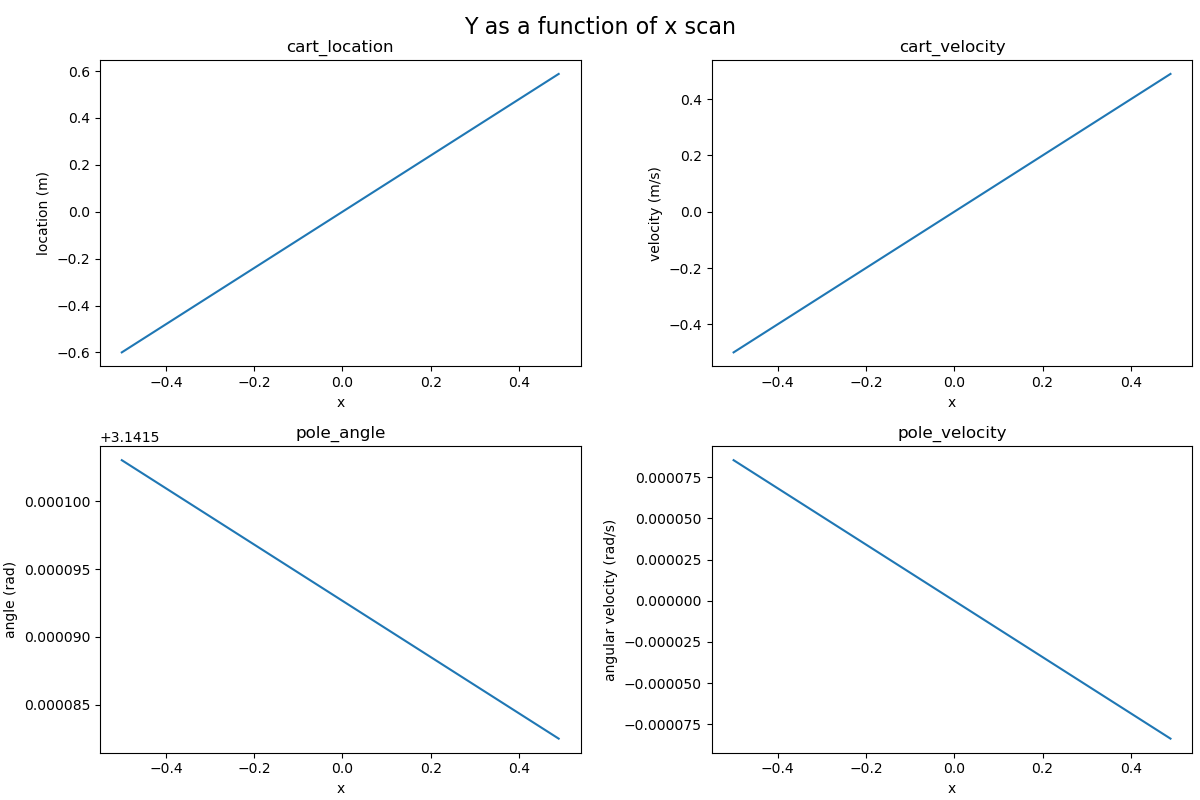
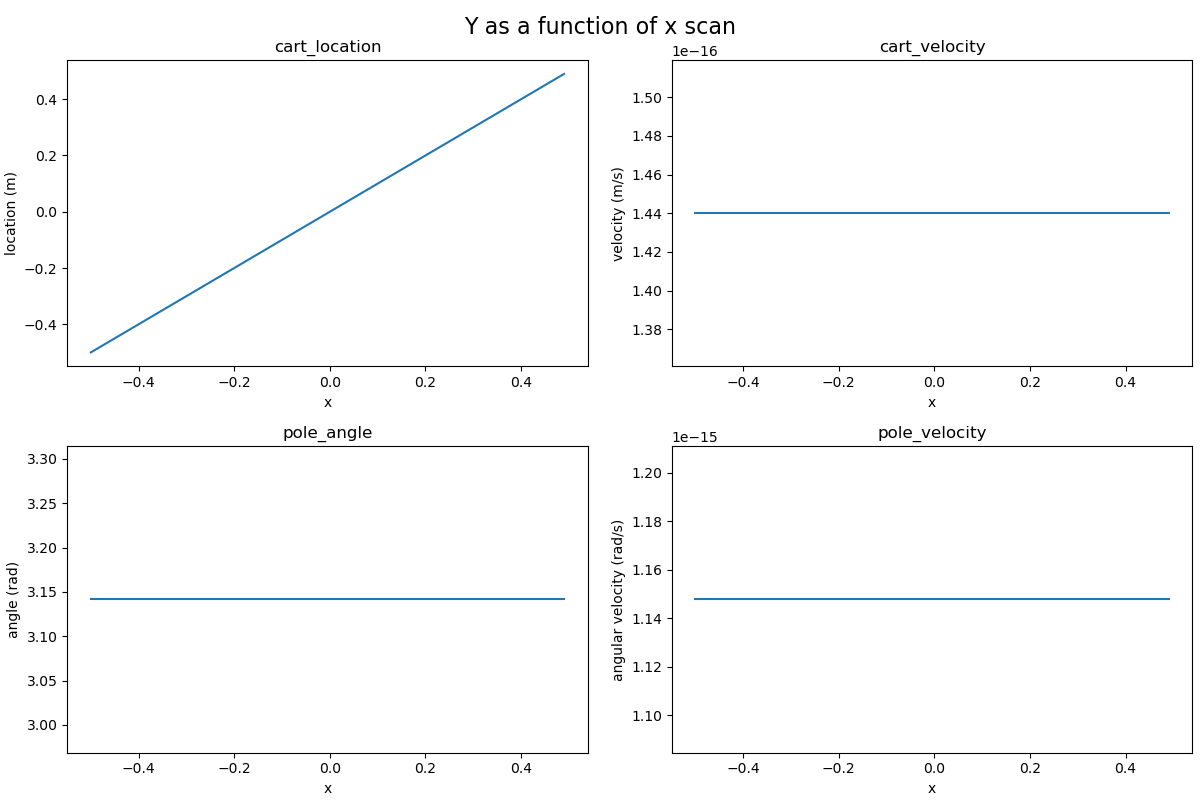
having trouble plotting contours

diff --git a/task1_22.py b/task1_22.py
@@ -1,4 +1,5 @@
 import numpy as np
+import matplotlib.tri as tri
 from CartPole import *
 
 # task 1.2 changes of state: model Y = X(T) - X(0)
@@ -6,79 +7,166 @@ from CartPole import *
 """initialisation"""
 cartpole1 = CartPole()
 
+# scans of variables
+
 """setting the state scans"""
-x_dot_scan = np.arange(-10,10,0.1)
-theta_scan = np.arange(np.pi-0.1,np.pi,0.001)
-theta_dot_scan = np.arange(14.5,15,0.01)
+x_scan = np.arange(-0.5,0.5,0.01)
+x_dot_scan = np.arange(-5,5,0.1)
+theta_scan = np.arange(2.14,3.14,0.01)
+theta_dot_scan = np.arange(13.5,14.5,0.01)
 
-"""Y plot for x_dot scan"""
-Y1 = []
-for x_dot in x_dot_scan:
-    X = np.array([0,x_dot,np.pi,0])
-    cartpole1.setState(X)
-    cartpole1.performAction()
-    Y = np.array(cartpole1.getState())
-    Y1.append((Y-X))
-Y1 = np.array(Y1)
-Y1_0 = Y1[:,0]
-Y1_1 = Y1[:,1]
-Y1_2 = Y1[:,2]
-Y1_3 = Y1[:,3]
+# """Y plot for x_dot scan"""
+# Y0 = []
+# for x in x_scan:
+#     X = np.array([x,0,np.pi,0])
+#     cartpole1.setState(X)
+#     cartpole1.performAction()
+#     Y = np.array(cartpole1.getState())
+#     Y0.append((Y-X))
+# Y0 = np.array(Y0)
 
-"""Y plot for theta scan"""
-Y2 = []
-for theta in theta_scan:
-    X = np.array([0,0,theta,0])
-    cartpole1.setState(X)
-    cartpole1.performAction()
-    Y = np.array(cartpole1.getState())
-    Y2.append((Y-X))
-Y2 = np.array(Y2)
-Y2_0 = Y2[:,0]
-Y2_1 = Y2[:,1]
-Y2_2 = Y2[:,2]
-Y2_3 = Y2[:,3]
+# """Y plot for x_dot scan"""
+# Y1 = []
+# for x_dot in x_dot_scan:
+#     X = np.array([0,x_dot,np.pi,0])
+#     cartpole1.setState(X)
+#     cartpole1.performAction()
+#     Y = np.array(cartpole1.getState())
+#     Y1.append((Y-X))
+# Y1 = np.array(Y1)
 
-"""Y plot for theta_dot scan"""
-Y3 = []
-for theta_dot in theta_dot_scan:
-    X = np.array([0,0,np.pi,theta_dot])
-    cartpole1.setState(X)
-    cartpole1.performAction()
-    Y = np.array(cartpole1.getState())
-    Y3.append((Y-X))
-Y3 = np.array(Y3)
-Y3_0 = Y3[:,0]
-Y3_1 = Y3[:,1]
-Y3_2 = Y3[:,2]
-Y3_3 = Y3[:,3]
+# """Y plot for theta scan"""
+# Y2 = []
+# for theta in theta_scan:
+#     X = np.array([0,0,theta,0])
+#     cartpole1.setState(X)
+#     cartpole1.performAction()
+#     Y = np.array(cartpole1.getState())
+#     Y2.append((Y-X))
+# Y2 = np.array(Y2)
 
-"""change the arguments to plot different dimensions of Y"""
-scan = 'x_dot'
-t = x_dot_scan
-y1 = Y1_0
-y2 = Y1_1
-y3 = Y1_2
-y4 = Y1_3
+# """Y plot for theta_dot scan"""
+# Y3 = []
+# for theta_dot in theta_dot_scan:
+#     X = np.array([0,0,np.pi,theta_dot])
+#     cartpole1.setState(X)
+#     cartpole1.performAction()
+#     Y = np.array(cartpole1.getState())
+#     Y3.append((Y-X))
+# Y3 = np.array(Y3)
+
+# """change the arguments to plot different dimensions of Y"""
+# scan_name = 'x'
+# t_data = x_scan
+# y_data = Y0
 
 """plotting"""
-fig, axs = plt.subplots(2,2,figsize=(12,8),constrained_layout=True)
-axs[0,0].plot(t,y1)
-axs[0,0].set_title('cart_location')
-axs[0,0].set_xlabel(scan)
-axs[0,0].set_ylabel('location (m)')
-axs[0,1].plot(t,y2)
-axs[0,1].set_title('cart_velocity')
-axs[0,1].set_xlabel(scan)
-axs[0,1].set_ylabel('velocity (m/s)')
-axs[1,0].plot(t,y3)
-axs[1,0].set_title('pole_angle')
-axs[1,0].set_xlabel(scan)
-axs[1,0].set_ylabel('angle (rad)')
-axs[1,1].plot(t,y4)
-axs[1,1].set_title('pole_velocity')
-axs[1,1].set_xlabel(scan)
-axs[1,1].set_ylabel('angular velocity (rad/s)')
-fig.suptitle('Y as a function of {} scan'.format(scan), fontsize=16)
-# fig.tight_layout()
-plt.show()
+def plot_scan(t,y,scan):
+    fig, axs = plt.subplots(2,2,figsize=(12,8),constrained_layout=True)
+    axs[0,0].plot(t,y[:,0])
+    axs[0,0].set_title('cart_location')
+    axs[0,0].set_xlabel(scan)
+    axs[0,0].set_ylabel('location (m)')
+    axs[0,1].plot(t,y[:,1])
+    axs[0,1].set_title('cart_velocity')
+    axs[0,1].set_xlabel(scan)
+    axs[0,1].set_ylabel('velocity (m/s)')
+    axs[1,0].plot(t,y[:,2])
+    axs[1,0].set_title('pole_angle')
+    axs[1,0].set_xlabel(scan)
+    axs[1,0].set_ylabel('angle (rad)')
+    axs[1,1].plot(t,y[:,3])
+    axs[1,1].set_title('pole_velocity')
+    axs[1,1].set_xlabel(scan)
+    axs[1,1].set_ylabel('angular velocity (rad/s)')
+    fig.suptitle('Y as a function of {} scan'.format(scan), fontsize=16)
+    plt.show()
+
+# plot_scan(t_data,y_data,scan_name)
+
+# contour plots 4C2 = 6
+
+"""first generate Z for the contours"""
+Y01 = [] # x & x_dot
+for x in x_scan:
+    Y0 = []
+    for x_dot in x_dot_scan:
+        X = np.array([x,x_dot,np.pi,0])
+        cartpole1.setState(X)
+        cartpole1.performAction()
+        Y = np.array(cartpole1.getState())
+        Y0.append((Y-X))
+    Y01.append(Y0)
+Y01 = np.array(Y01)
+
+Y02 = [] # x & theta
+for x in x_scan:
+    Y0 = []
+    for theta in theta_scan:
+        X = np.array([x,0,theta,0])
+        cartpole1.setState(X)
+        cartpole1.performAction()
+        Y = np.array(cartpole1.getState())
+        Y0.append((Y-X))
+    Y02.append(Y0)
+Y02 = np.array(Y02)
+
+Y03 = [] # x & theta_dot
+for x in x_scan:
+    Y0 = []
+    for theta_dot in theta_dot_scan:
+        X = np.array([x,0,np.pi,theta_dot])
+        cartpole1.setState(X)
+        cartpole1.performAction()
+        Y = np.array(cartpole1.getState())
+        Y0.append((Y-X))
+    Y03.append(Y0)
+Y03 = np.array(Y03)
+
+Y12 = [] # x_dot & theta
+for x_dot in x_dot_scan:
+    Y1 = []
+    for theta in theta_scan:
+        X = np.array([0,x_dot,theta,0])
+        cartpole1.setState(X)
+        cartpole1.performAction()
+        Y = np.array(cartpole1.getState())
+        Y1.append((Y-X))
+    Y12.append(Y1)
+Y12 = np.array(Y12)
+
+Y13 = [] # x_dot & theta_dot
+for x_dot in x_dot_scan:
+    Y1 = []
+    for theta_dot in theta_dot_scan:
+        X = np.array([0,x_dot,np.pi,theta_dot])
+        cartpole1.setState(X)
+        cartpole1.performAction()
+        Y = np.array(cartpole1.getState())
+        Y1.append((Y-X))
+    Y13.append(Y1)
+Y13 = np.array(Y13)
+
+Y23 = [] # theta & theta_dot
+for theta in theta_scan:
+    Y2 = []
+    for theta_dot in theta_dot_scan:
+        X = np.array([0,0,theta,theta_dot])
+        cartpole1.setState(X)
+        cartpole1.performAction()
+        Y = np.array(cartpole1.getState())
+        Y2.append((Y-X))
+    Y23.append(Y2)
+Y23 = np.array(Y23)
+
+
+"""plot the contours"""
+def contour_plots(x,y,z):
+    fig, ax = plt.subplots()
+    ax.tricontour(x, y, z, levels=14, linewidths=0.5, colors='k')
+    cntr = ax.tricontourf(x, y, z, levels=14, cmap="RdBu_r")
+    fig.colorbar(cntr, ax=ax)
+    # fig.set_title('Y changing with {} and {}'.format('',''))
+    plt.show()
+
+contour_plots(theta_scan, theta_dot_scan,Y23[:,0])

diff --git a/CartPole.py b/CartPole.py
@@ -95,10 +95,10 @@ class CartPole:
             c = np.cos(self.pole_angle)
             m = 4.0*(self.cart_mass+self.pole_mass)-3.0*self.pole_mass*(c**2)
             
-            cart_accel = (2.0*(self.pole_length*self.pole_mass*(self.pole_velocity**2)*s+force-self.mu_c*self.cart_velocity)\
-                -3.0*self.pole_mass*self.gravity*c*s )/m
+            cart_accel = (2.0*(self.pole_length*self.pole_mass*(self.pole_velocity**2)*s+2.0*(force-self.mu_c*self.cart_velocity))\
+                -3.0*self.pole_mass*self.gravity*c*s + 6.0*self.mu_p*self.pole_velocity*c/self.pole_length)/m
             
-            pole_accel = (-3.0*c*(self.pole_length/2.0*self.pole_mass*(self.pole_velocity**2)*s + force-self.mu_c*self.cart_velocity)+\
+            pole_accel = (-3.0*c*(2.0/self.pole_length)*(self.pole_length/2.0*self.pole_mass*(self.pole_velocity**2)*s + force-self.mu_c*self.cart_velocity)+\
                 6.0*(self.cart_mass+self.pole_mass)/(self.pole_mass*self.pole_length)*\
                 (self.pole_mass*self.gravity*s - 2.0/self.pole_length*self.mu_p*self.pole_velocity) \
                 )/m
@@ -122,16 +122,6 @@ class CartPole:
     def loss(self):
         return _loss(self.getState())
     
-    def terminate(self):
-        """Indicates whether or not the episode should terminate.
-
-        Returns:
-            A boolean, true indicating the end of an episode and false indicating the episode should continue.
-            False is returned if either the cart location or
-            the pole angle is beyond the allowed range.
-        """
-        return np.abs(self.cart_location) > self.state_range[0, 1] or \
-               (np.abs(self.pole_angle) > self.state_range[2, 1]).any()
 
    # the following are graphics routines
     def drawPlot(self):
@@ -163,7 +153,6 @@ class CartPole:
         self.fig.show()
         
         plt.pause(0.2)
-
 
 
 

diff --git a/task1_21.py b/task1_21.py
@@ -12,10 +12,10 @@ x_dot_scan = np.arange(-10,10,0.1)
 theta_scan = np.arange(np.pi-0.1,np.pi,0.001)
 theta_dot_scan = np.arange(14.5,15,0.01)
 
-"""Y plot for x_dot scan"""
+"""Y plot for x scan"""
 Y0 = []
 for x in x_scan:
-    X = [x,x,np.pi,0]
+    X = [x,0,np.pi,0]
     cartpole1.setState(X)
     cartpole1.performAction()
     Y = cartpole1.getState()
